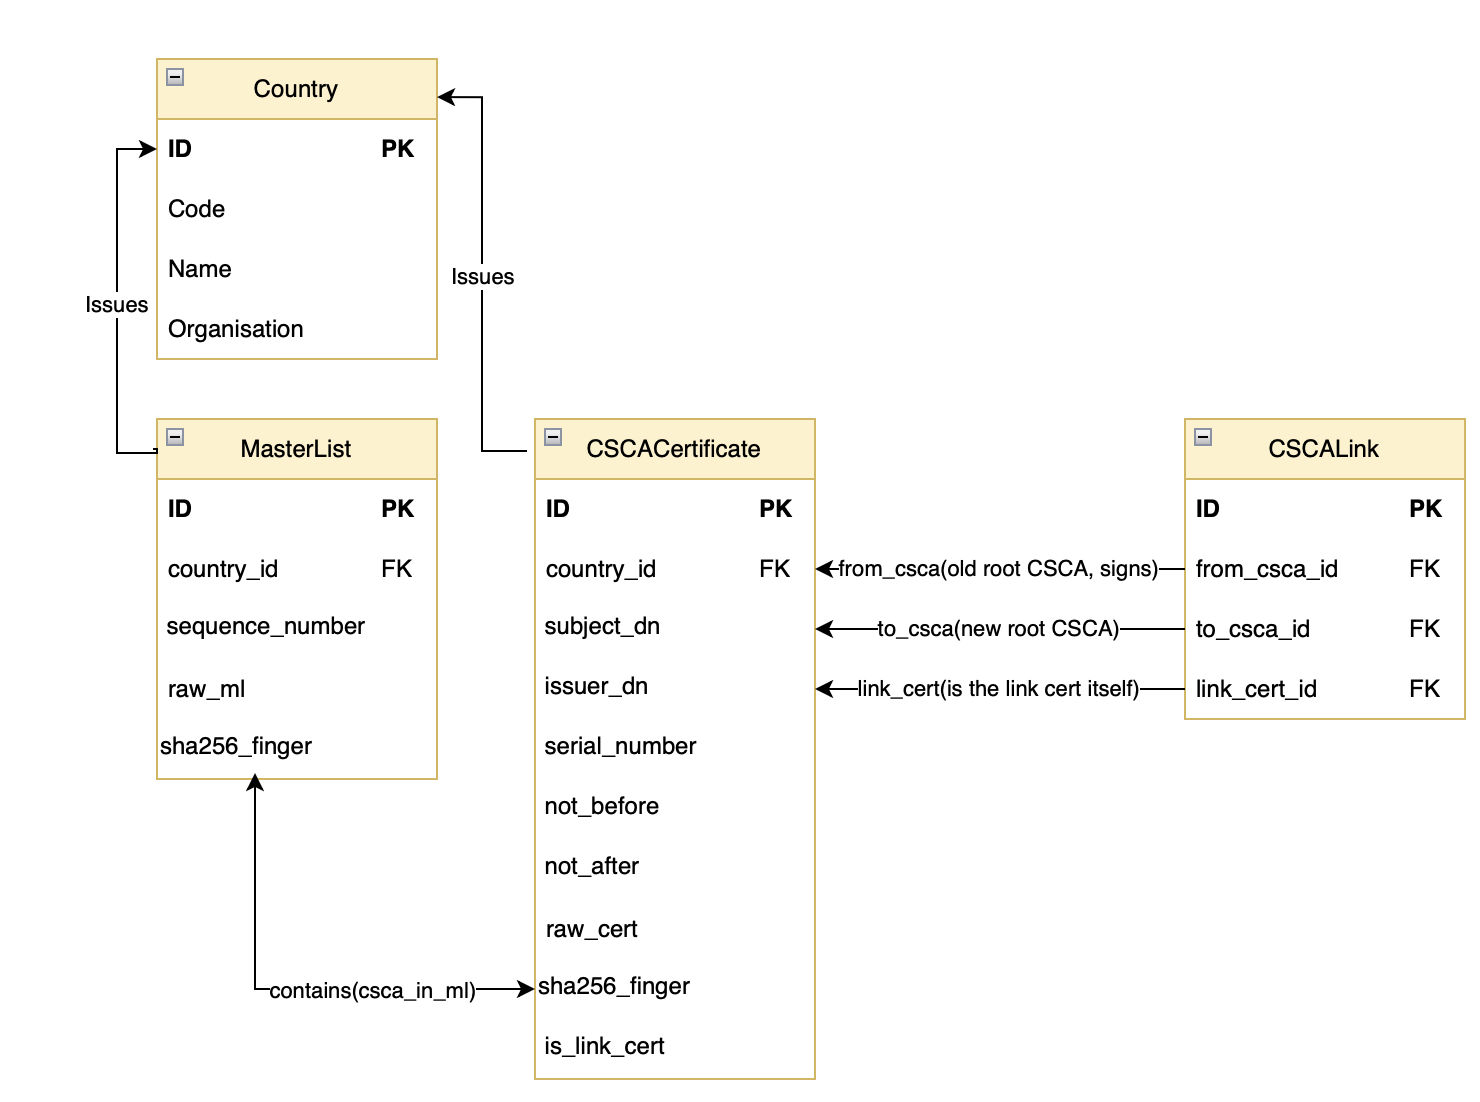
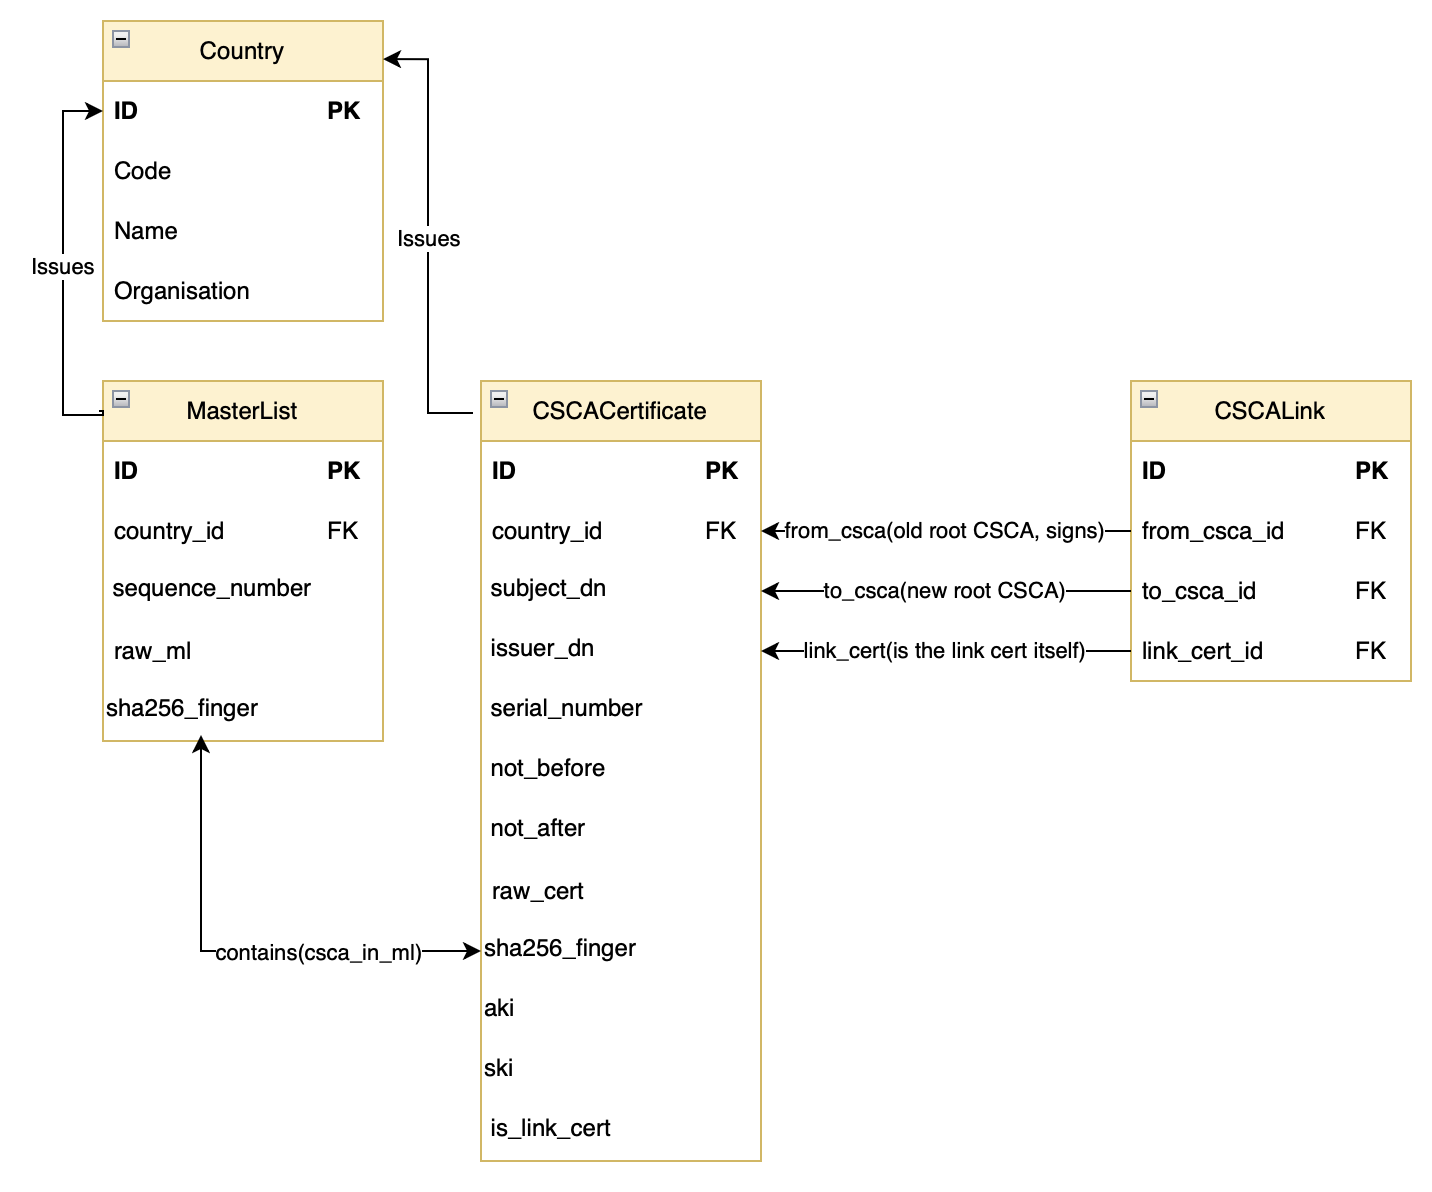
adding logging and merging get aki/ski and is_link_cert

diff --git a/PKD/graph/link_builder.py b/PKD/graph/link_builder.py
@@ -1,6 +1,9 @@
-from PKD.crypto_helpers import _get_aki_ski, _verify_link
+from PKD.verify.crypto_helpers import _get_aki_ski, _verify_link
 from PKD.db_models import CSCACertificate, CSCALink
 from collections import defaultdict
+
+import logging
+logger = logging.getLogger(__name__)
 
 
 class LinkGraphBuilder:
@@ -21,35 +24,40 @@ class LinkGraphBuilder:
         index = {}
 
         for cert in certs:
-            _, ski = _get_aki_ski(cert)
+            ski = cert.ski
             if ski:
                 index[ski] = cert
 
         return index
 
     def _process_link(self, link_cert, ski_index):
-        aki, ski = _get_aki_ski(link_cert)
+        aki = link_cert.aki
+        ski = link_cert.ski
 
         old_csca = ski_index.get(aki) if aki else None
         new_csca = ski_index.get(ski) if ski else None
 
         if old_csca is None:
-            print(
-                f"[LINK] No issuer found for {link_cert.country.code}, "
-                f"{link_cert.not_after}"
+            logger.debug(
+                "No issuer found", extra={
+                    "country": link_cert.country.code,
+                    "not_after": link_cert.not_after}
             )
             return
 
         if not _verify_link(link_cert, old_csca):
-            print(
-                f"[LINK] Invalid signature: {link_cert.country.code}"
+            logger.debug(
+                "Invalid signature", extra={
+                    "country": link_cert.country.code,
+                    "not_after": link_cert.not_after}
             )
             return
 
         if new_csca is None:
-            print(
-                f"[LINK] No target CSCA for {link_cert.country.code}, "
-                f"{link_cert.not_after}"
+            logger.debug(
+                "No target CSCA", extra={
+                    "country": link_cert.country.code,
+                    "not_after": link_cert.not_after}
             )
             return
 

diff --git a/PKD/parsers/cert_parser.py b/PKD/parsers/cert_parser.py
@@ -1,23 +1,13 @@
 from PKD.load_mls.load_ml import sha256
+from PKD.verify.crypto_helpers import _get_aki_ski
 from dataclasses import dataclass
 from datetime import datetime
 from asn1crypto import x509 as asn1_x509
 
-def is_link_certificate(cert: asn1_x509.Certificate) -> bool:
-    extensions = cert['tbs_certificate']['extensions']
+import logging
+logger = logging.getLogger(__name__)
 
-    ski = None
-    aki = None
-    for ext in extensions:
-        try:
-            if ext['extn_id'].native == 'key_identifier':
-                ski = ext['extn_value'].parsed.native
-            elif ext['extn_id'].native == 'authority_key_identifier':
-                aki_field = ext['extn_value'].parsed['key_identifier']
-                aki = aki_field.native if aki_field else None
-        except ValueError:
-            # Malformed extension bytes on this cert; skip it and fall back below
-            continue
+def is_link_certificate(aki,ski,cert: asn1_x509.Certificate) -> bool:
 
     if ski is None or aki is None:
         return cert.subject.human_friendly != cert.issuer.human_friendly
@@ -46,6 +36,9 @@ class ParsedCert:
     not_before: datetime
     not_after: datetime
 
+    aki: bytes
+    ski: bytes
+
     is_link_cert: bool
 
 def parse_cert(cert: asn1_x509.Certificate) -> ParsedCert:
@@ -53,6 +46,8 @@ def parse_cert(cert: asn1_x509.Certificate) -> ParsedCert:
 
     subject = cert.subject.native
     issuer = cert.issuer.native
+
+    aki,ski = _get_aki_ski(cert)
 
     return ParsedCert(
         raw             = der,
@@ -72,5 +67,8 @@ def parse_cert(cert: asn1_x509.Certificate) -> ParsedCert:
         not_before      = cert['tbs_certificate']['validity']['not_before'].native,
         not_after       = cert['tbs_certificate']['validity']['not_after'].native,
 
-        is_link_cert    = is_link_certificate(cert)
+        aki = aki,
+        ski = ski,
+        
+        is_link_cert    = is_link_certificate(aki,ski, cert)
         )

diff --git a/PKD/PKDimporter.py b/PKD/PKDimporter.py
@@ -2,18 +2,16 @@ from PKD.parsers.ml_parser import parse_ml
 from PKD.load_mls.load_ml import load_mls
 from PKD.parsers.cert_parser import parse_cert
 from collections import defaultdict
+
 from PKD.graph.link_builder import LinkGraphBuilder
 from PKD.repositories.cert_repo import CertificateRepository
 from PKD.repositories.ml_repo import MasterListRepository
 from PKD.repositories.country_repo import CountryRepository
+from PKD.db_models import MasterList,SessionLocal
 
-from sqlalchemy.orm import Session
 import logging
+logger = logging.getLogger(__name__)
 
-from PKD.db_models import (
-    MasterList,
-    SessionLocal,
-)
 
 class PKDImporter:
     def __init__(self, session):
@@ -24,13 +22,21 @@ class PKDImporter:
         self.cert_repo = CertificateRepository(session)
 
     def parse(self):
+        logger.info("Starting PKD import")
+
         for ml_data in load_mls():
+            logger.info("Processing ML for %s", ml_data.country)
 
             country = self.country_repo.get_or_create(ml_data.country)
             ml = self.ml_repo.get_or_create(ml_data, country)
 
             for cert in parse_ml(ml_data):
                 parsed = parse_cert(cert)
+
+                logger.debug("Parsed certificate", extra={
+                    "subject": parsed.subject_country,
+                    "is_link": parsed.is_link_cert}
+                    )
 
                 cert_country = self.country_repo.get_or_create(
                     parsed.subject_country,
@@ -39,7 +45,9 @@ class PKDImporter:
 
                 self.cert_repo.create(parsed, cert_country, ml)
 
+        logger.info("Staring CSCA link graph construction")
         LinkGraphBuilder(self.session).build()
+        logger.info("Link Graph construstion complete")
     
 
 

diff --git a/PKD/db_models.py b/PKD/db_models.py
@@ -68,6 +68,9 @@ class CSCACertificate(Base):
     not_after       = Column(DateTime)
     sha256_finger   = Column(String(64), unique=True, index=True, nullable=False)
     raw_cert        = Column(LargeBinary, nullable=False)
+
+    ski             = Column(LargeBinary, nullable=True)
+    aki             = Column(LargeBinary, nullable=True)
     
     is_link_cert    = Column(Boolean, default=False)
 

diff --git a/PKD/repositories/cert_repo.py b/PKD/repositories/cert_repo.py
@@ -27,6 +27,8 @@ class CertificateRepository:
             not_after=cert_data.not_after,
             serial_number=cert_data.serial_number,
             sha256_finger=cert_data.sha256_finger,
+            aki = cert_data.aki,
+            ski = cert_data.ski,
             country=country,
             is_link_cert=cert_data.is_link_cert,
         )